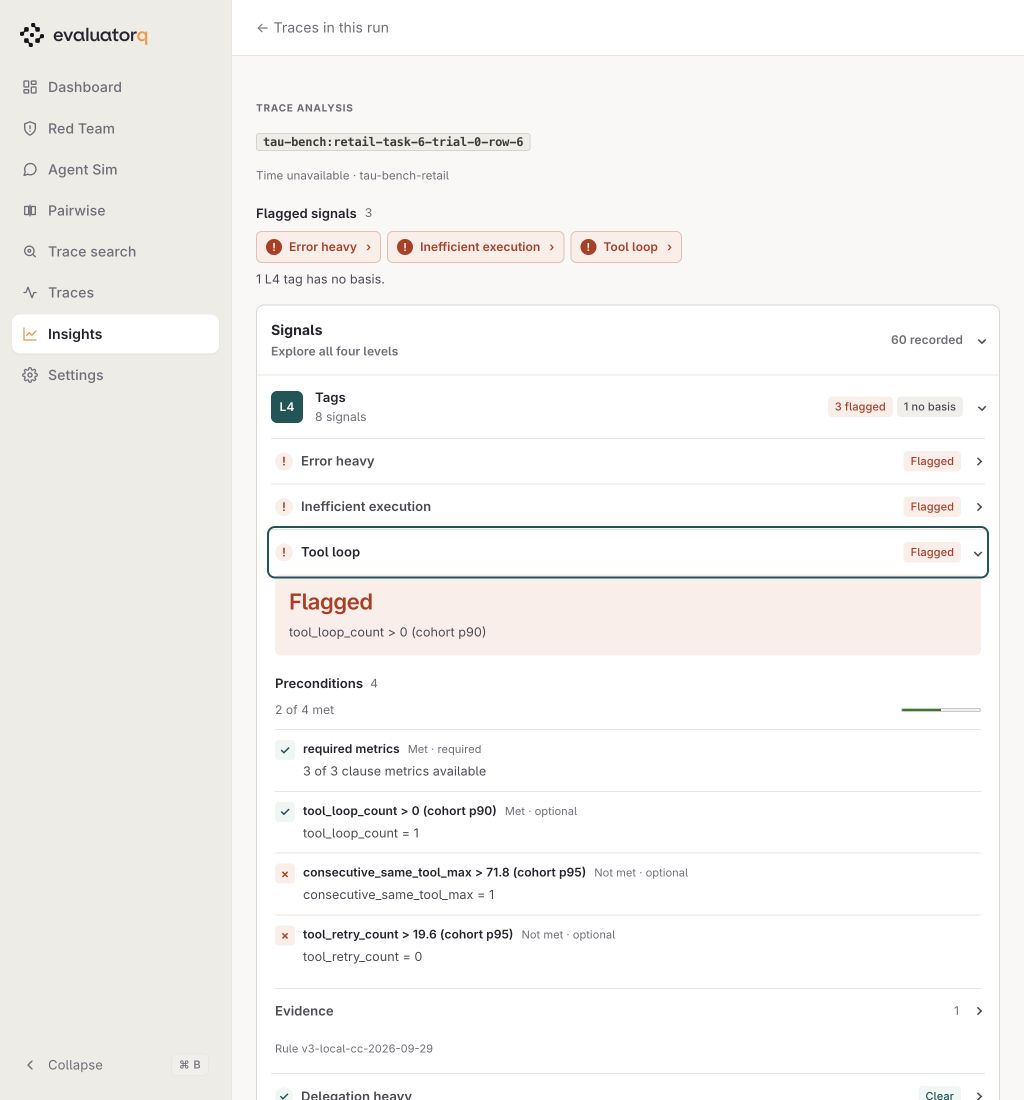
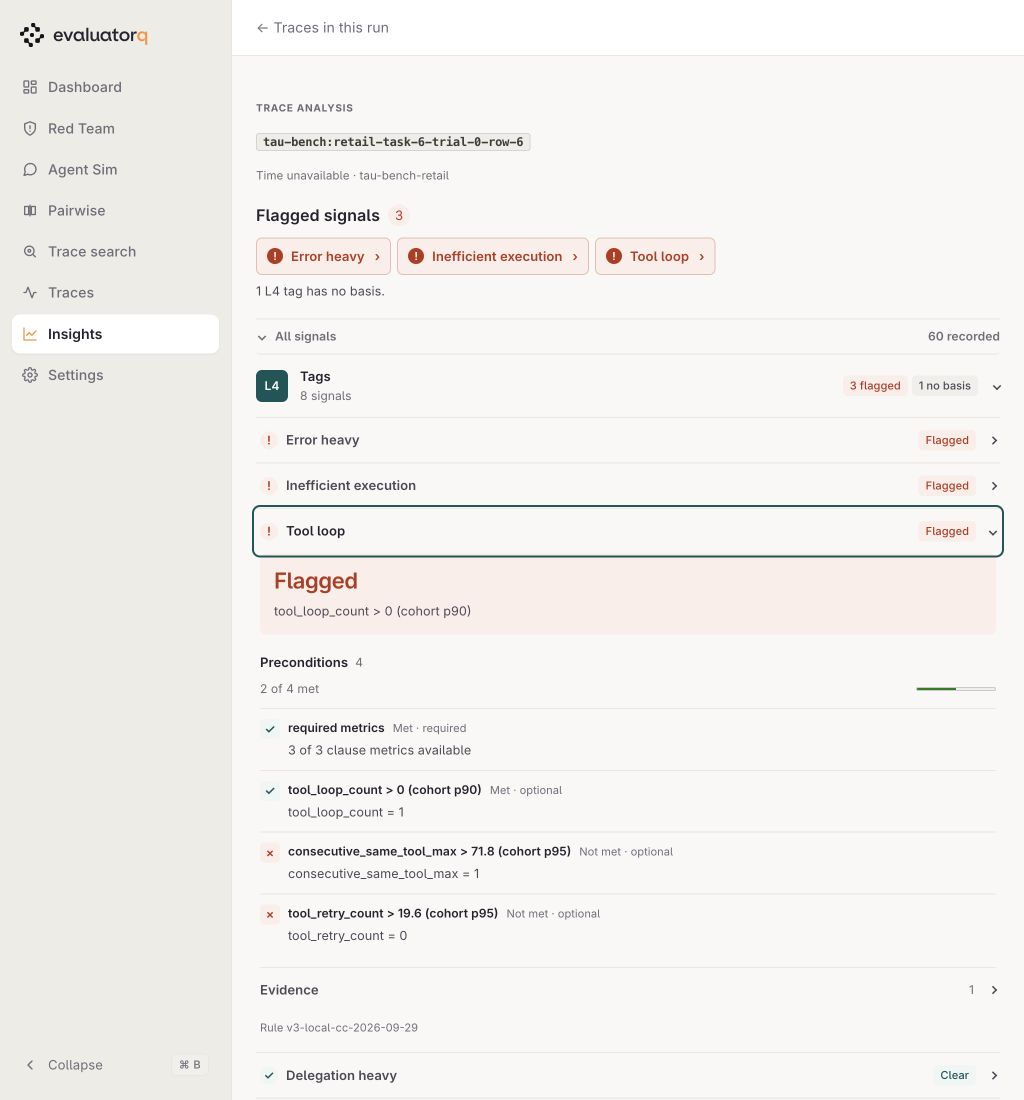
fix: prioritize flagged signal chips (RES-1688)

diff --git a/src/evaluatorq/dashboard/static/insights-signals.css b/src/evaluatorq/dashboard/static/insights-signals.css
@@ -2,11 +2,13 @@
 .signal-panel { --signal-accent:var(--teal-600); --signal-tint:var(--teal-50); margin:20px 0; min-width:0; container-type:inline-size; font:13px/1.5 var(--font-sans,var(--sans)); color:var(--text-body); }
 .insights-trace-detail .signal-panel { padding:0; border:0; border-radius:0; background:transparent; }
 .signal-panel h5,.signal-panel .signal-highlights h5 { margin:0; font:600 13px/1.5 var(--font-sans,var(--sans)); color:var(--text-strong); text-transform:none; letter-spacing:normal; }
-.signal-highlights { margin-bottom:16px; }
-.signal-highlights-heading { display:flex; align-items:center; gap:8px; margin-bottom:8px; }
-.signal-highlights-heading>span { color:var(--text-muted); font-size:12px; }
+.signal-highlights { margin-bottom:18px; }
+.signal-panel .signal-highlights h5 { font-size:16px; }
+.signal-highlights-heading { display:flex; align-items:center; gap:8px; margin-bottom:10px; }
+.signal-highlights-heading>span { padding:1px 7px; border-radius:20px; background:var(--surface-sunken); color:var(--text-muted); font-size:13px; }
+.signal-highlights:has(.signal-tag) .signal-highlights-heading>span { background:var(--red-50); color:var(--red-700); }
 .signal-tags { display:flex; flex-wrap:wrap; gap:6px; }
-.signal-tag { display:inline-flex; align-items:center; gap:7px; max-width:100%; padding:6px 9px; border:1px solid #e9bcb1; border-radius:6px; background:var(--red-50); color:var(--red-700); font:600 12px/1.5 var(--font-sans,var(--sans)); text-align:left; overflow-wrap:anywhere; cursor:pointer; }
+.signal-tag { display:inline-flex; align-items:center; gap:8px; max-width:100%; padding:8px 10px; border:1px solid #e9bcb1; border-radius:6px; background:var(--red-50); color:var(--red-700); font:600 13px/1.5 var(--font-sans,var(--sans)); text-align:left; overflow-wrap:anywhere; cursor:pointer; }
 .signal-tag>span:first-child { display:grid; place-items:center; flex:none; width:16px; height:16px; border-radius:50%; background:var(--red-700); color:#fff; font-size:11px; }
 .signal-tag>span:last-child { margin-left:2px; }
 .signal-tag:hover { background:var(--red-100); border-color:var(--red-700); }
@@ -14,15 +16,15 @@
 .signal-coverage-note { margin:7px 0 0; color:var(--text-muted); font-size:12px; }
 .signal-empty { margin:8px 0; color:var(--text-muted); overflow-wrap:anywhere; }
 .signal-highlights .signal-empty { margin:0; }
-.signal-browser { border:1px solid var(--border-default); border-radius:8px; background:var(--surface-card); }
-.signal-browser>summary,.signal-evidence-section>summary { display:grid; grid-template-columns:minmax(0,1fr) auto 12px; }
-.signal-browser>summary { padding:14px; border-radius:8px; }
-.signal-browser>summary b { display:block; font-size:14px; color:var(--text-strong); }
-.signal-browser>summary small { display:block; margin-top:2px; font-size:12px; color:var(--text-muted); }
+.signal-browser { border:0; border-top:1px solid var(--border-subtle); border-radius:0; background:transparent; }
+.signal-evidence-section>summary { display:grid; grid-template-columns:minmax(0,1fr) auto 12px; }
+.signal-browser>summary { display:grid; grid-template-columns:12px minmax(0,1fr) auto; padding:8px 0; gap:7px; font-size:12px; color:var(--text-muted); border-radius:4px; }
+.signal-browser>summary>span:first-child { grid-column:2; grid-row:1; }
+.signal-browser>summary::after { grid-column:1; grid-row:1; margin-left:0; border-color:var(--text-muted); }
 .signal-total { color:var(--text-muted); font-size:12px; white-space:nowrap; }
 .signal-browser>summary:hover { background:var(--signal-tint); }
-.signal-browser[open]>summary { border-bottom:1px solid var(--border-subtle); border-radius:8px 8px 0 0; }
-.signal-browser-body { padding:0 14px 12px; }
+.signal-browser[open]>summary { border-bottom:1px solid var(--border-subtle); }
+.signal-browser-body { padding:0 0 12px; }
 .signal-level { margin:0; border:0; border-bottom:1px solid var(--border-subtle); background:transparent; }
 .signal-level>summary { display:grid; grid-template-columns:34px minmax(0,1fr) auto 12px; padding:12px 0; min-height:60px; }
 .signal-level>summary:hover .signal-level-name { color:var(--signal-accent); }
@@ -82,7 +84,6 @@
   .signal-row>summary { grid-template-columns:18px minmax(0,1fr) 12px; gap:6px 8px; }
   .signal-summary-meta { grid-column:2; grid-row:2; justify-content:flex-start; }
   .signal-row>summary::after { grid-column:3; grid-row:1 / 3; }
-  .signal-browser>summary { padding:12px; gap:8px; }
   .signal-total { font-size:11px; }
 }
 @media (prefers-reduced-motion:reduce) {

diff --git a/src/evaluatorq/dashboard/static/insights-signals.js b/src/evaluatorq/dashboard/static/insights-signals.js
@@ -89,7 +89,7 @@
     });
     const browser = ui.foldout({
       key: 'browser', className: 'signal-browser', data: {'signal-key': 'browser'},
-      summaryHtml: `<span><b>Signals</b><small>Explore all four levels</small></span><span class="signal-total">${names.length} recorded</span>`,
+      summaryHtml: `<span>All signals</span><span class="signal-total">${names.length} recorded</span>`,
       bodyHtml: `<div class="signal-browser-body">${error}${!names.length ? '<p class="signal-empty">No signals were recorded for this trace.</p>' : ''}${groups}${metadata}</div>`,
     });
     return `<section class="signal-panel eq-components">${highlights}${browser}</section>`;

diff --git a/docs/insights.md b/docs/insights.md
@@ -150,7 +150,7 @@ Tags report **No basis** when missing measurements leave the rule's result undet
 
 In the dashboard, open **Insights**, choose a saved run, and select a row in its **Traces** list. This opens the trace sidebar; choose **Open full trace** for its dedicated page.
 
-For a trace with a saved report, the sidebar and full trace page’s **Signals** section is collapsed when the page opens. Above it, the initial view shows only L4 tags that fired, as compact buttons that open the matching signal; when no tags fired, it says so explicitly. Expand **Signals** to reveal four independently expandable groups: **L4 Tags**, **L3 Autonomy**, **L2 Tools**, and **L1 Structure**, in that order. Each signal row expands to show its primary value and outcome, with precondition checks visible inside the opened row. Step or call evidence is available in a separate foldout that starts collapsed. L4 rows show the tag outcome and supporting evidence without a technical attribute-name block. **Flagged** means a tag fired, **Clear** means it did not fire, **Approximate** marks an estimate, and **No basis** means required data is missing. Older runs without a saved report show that signals were not measured. A measured zero is a real value. Unsupported custom or MCP tool activity makes affected tool measurements unavailable instead of displaying an incomplete count as zero. Inspecting the original conversation still requires its source.
+For a trace with a saved report, both the sidebar and full trace page show L4 tags that fired as prominent chips that open the matching signal; when no tags fired, they say so explicitly. The smaller **All signals** foldout starts collapsed below the chips. Expand **All signals** to reveal four independently expandable groups: **L4 Tags**, **L3 Autonomy**, **L2 Tools**, and **L1 Structure**, in that order. Each group starts collapsed and expands independently. Each signal row expands to show its primary value and outcome, with precondition checks visible inside the opened row. Step or call evidence is available in a separate foldout that starts collapsed. L4 rows show the tag outcome and supporting evidence without a technical attribute-name block. **Flagged** means a tag fired, **Clear** means it did not fire, **Approximate** marks an estimate, and **No basis** means required data is missing. Older runs without a saved report show that signals were not measured. A measured zero is a real value. Unsupported custom or MCP tool activity makes affected tool measurements unavailable instead of displaying an incomplete count as zero. Inspecting the original conversation still requires its source.
 
 New runs use storage schema version 2 and save each trace's full `signals` report and `source_coverage` summary, plus the effective `config.signals` settings and resolved tag thresholds. The coverage summary retains known provenance, span counts, missing call IDs, and enrichment failures; arbitrary source payload sidecars are excluded. Version 1 runs remain readable and show their signals as unmeasured. Insights does not save a separate local ATIF document or conversation body, and opening a saved signal report makes no source or model requests.
 

diff --git a/CHANGELOG.md b/CHANGELOG.md
@@ -21,7 +21,7 @@ All notable changes to `evaluatorq` are documented here.
 
 - Determine L4 tags from sufficient recorded evidence even when other measurements are missing. Retry counts are zero when the configured matching rules admit no possible retry; missing error status remains unknown when a retry is possible.
 
-- Show flagged L4 tags in the initial Insights trace view, with the full Signals section collapsed until opened; provide separate expandable groups ordered L4 → L3 → L2 → L1, signal rows with visible preconditions, and separately collapsed evidence. Signal review uses flat level rows, readable status labels, and semantic result colors; narrow layouts wrap metadata below each signal name. Foldouts, result feedback, and precondition lists are reusable dashboard components with a standalone example and usage guide. The sidebar uses a bordered Open full trace button for local navigation and keeps unavailable-tag coverage inside the level details instead of its overview.
+- Show flagged L4 tags in the initial Insights trace view, as prominent chips above a compact All signals foldout that stays collapsed until opened; provide separate expandable groups ordered L4 → L3 → L2 → L1, signal rows with visible preconditions, and separately collapsed evidence. Signal review uses flat level rows, readable status labels, and semantic result colors; narrow layouts wrap metadata below each signal name. Foldouts, result feedback, and precondition lists are reusable dashboard components with a standalone example and usage guide. The sidebar uses a bordered Open full trace button for local navigation and keeps unavailable-tag coverage inside the level details instead of its overview.
 
 - Dataset trace documents now carry typed `DatasetRef` and `Outcome` metadata outside ATIF, support rows without span IDs or timestamps, and convert to evaluation datapoints with preserved provenance and ground truth. `check_trace_document()` checks source-measured counts, outcomes, and wrapper JSON round-trips.
 
